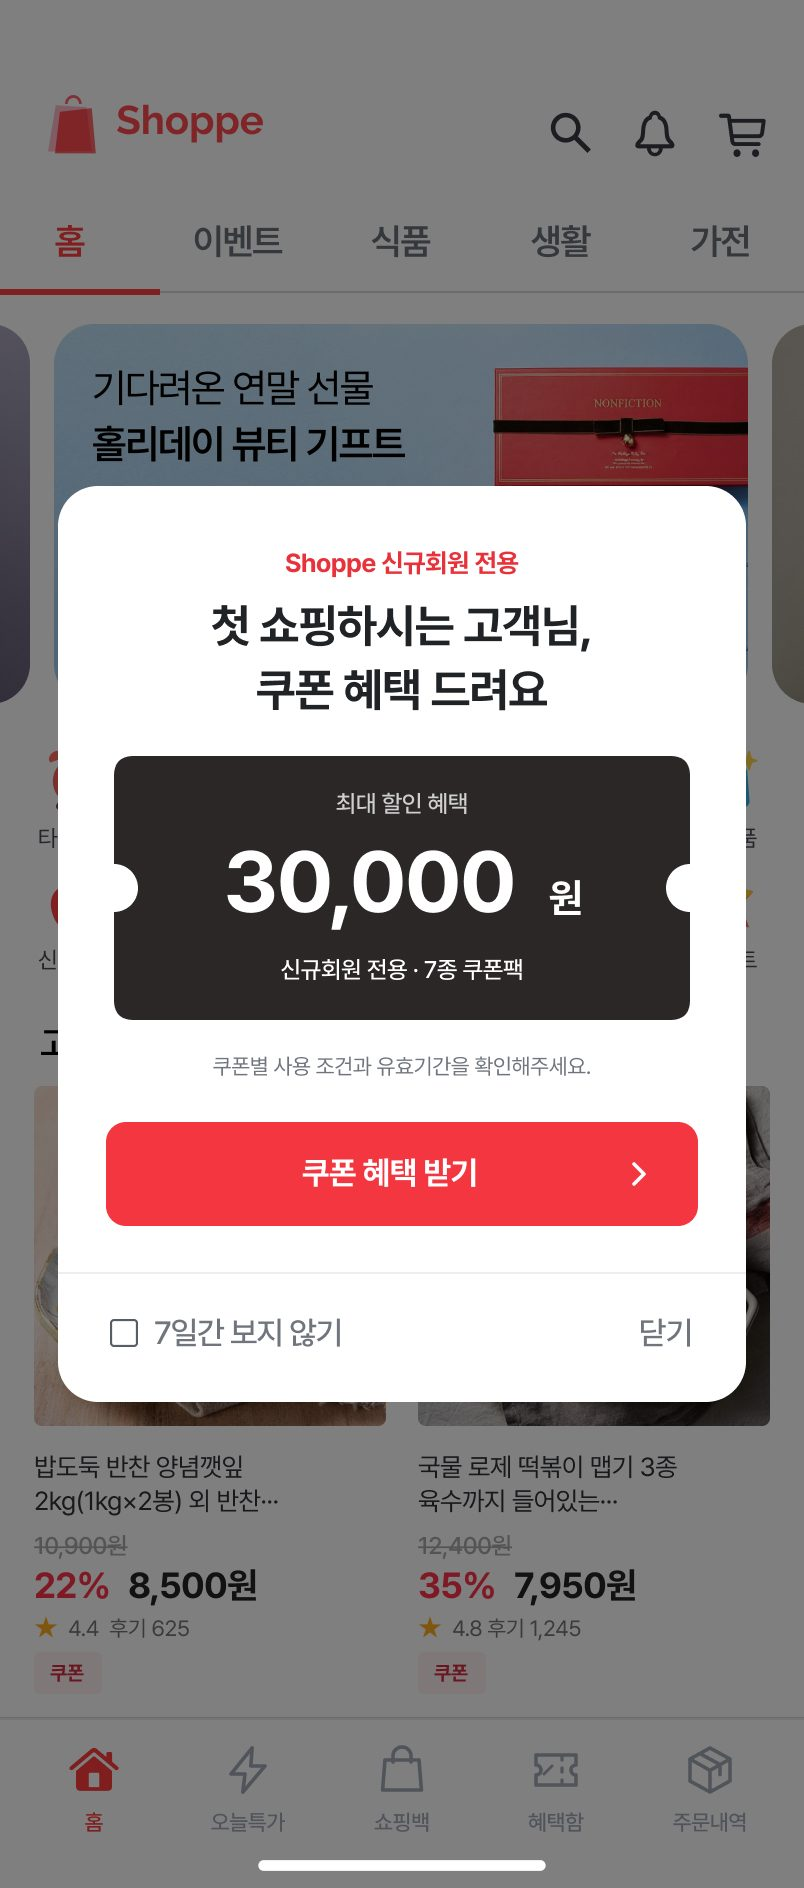
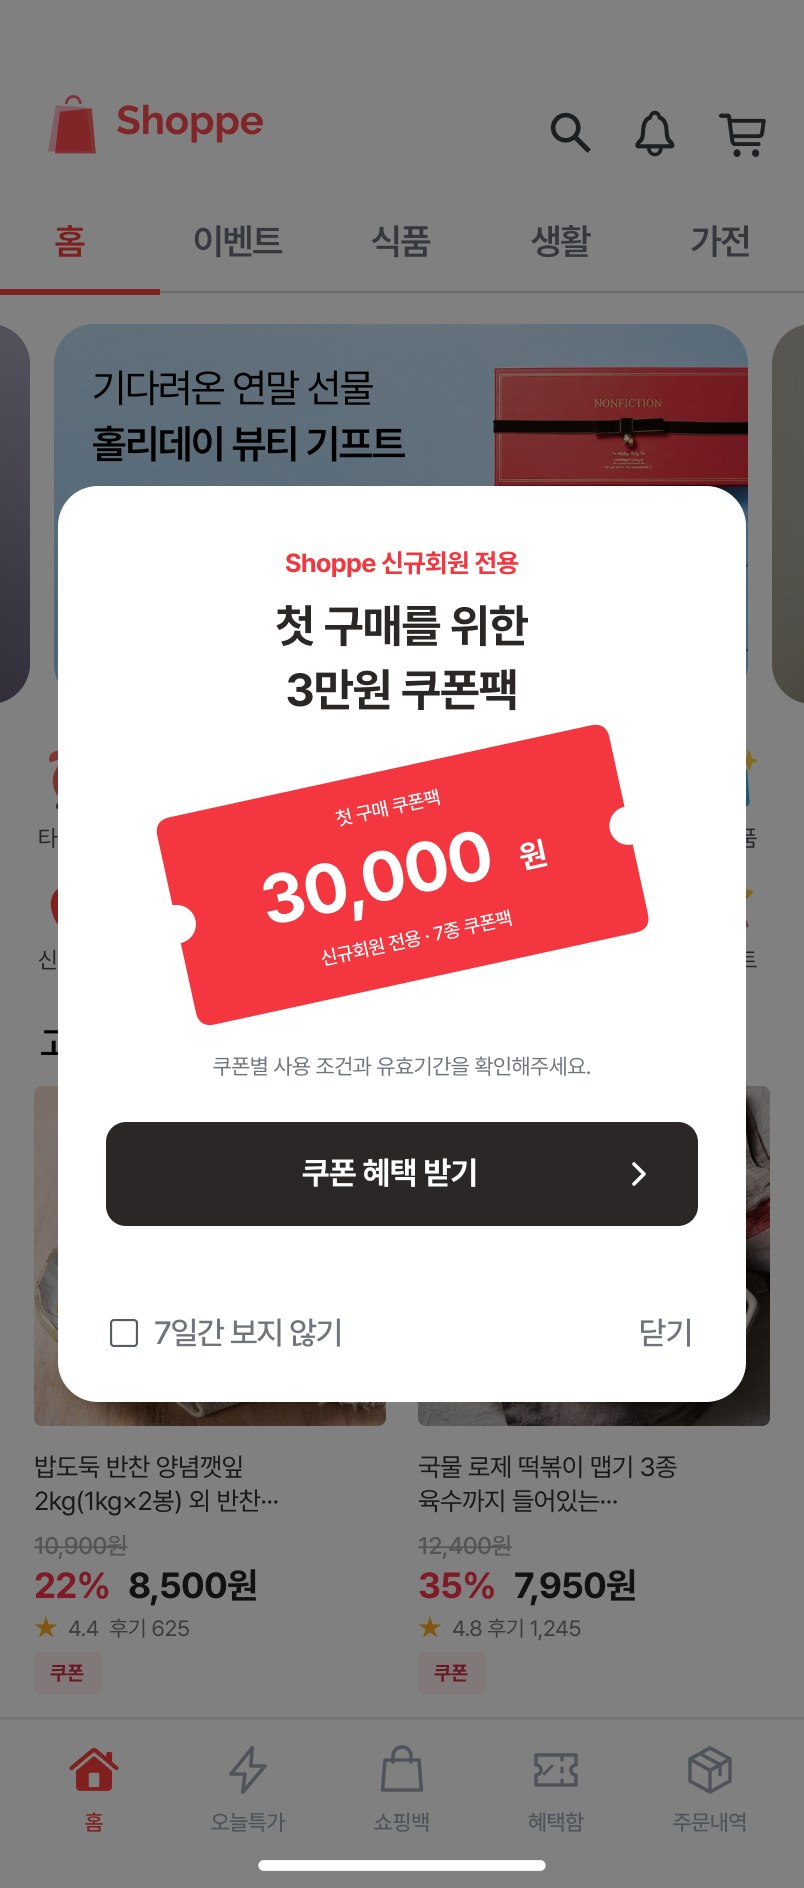
survey update(261118)

Changed region(s): [[0.1244, 0.3125, 0.8706, 0.5625], [0.1244, 0.5938, 0.8706, 0.6562]]

diff --git a/index.html b/index.html
@@ -114,6 +114,17 @@ input:focus-visible, button:focus-visible, [tabindex]:focus-visible { outline: 3
   .two-col .phone img { height: 100%; object-fit: contain; }
 }
 @media (max-width: 859px) { .two-col .phone { max-width: 250px; } }
+/* 조건 제시 전 안내 화면 */
+.intro-stage { position: relative; min-height: min(76vh, 720px); display: grid; place-items: center; overflow: hidden; border-radius: 20px; border: 1px solid var(--line); background: var(--surface); padding: 40px 20px; }
+.intro-stage .bg { position: absolute; inset: 0; display: flex; justify-content: center; align-items: center; pointer-events: none; }
+.intro-stage .bg img { height: 108%; width: auto; max-width: none; opacity: .14; filter: blur(1.5px) grayscale(.2); border-radius: 36px; }
+.intro-stage .bg::after { content: ""; position: absolute; inset: 0; background: radial-gradient(ellipse at center, var(--surface) 0%, transparent 70%); opacity: .75; }
+.intro-copy { position: relative; max-width: 520px; text-align: center; display: grid; gap: 18px; }
+.intro-copy .intro-head { font-size: clamp(22px, 4.6vw, 30px); font-weight: 700; line-height: 1.35; text-wrap: balance; }
+.intro-copy .intro-body { display: grid; gap: 10px; font-size: clamp(16px, 2.6vw, 18px); line-height: 1.7; text-wrap: pretty; }
+.intro-copy .intro-body b { color: var(--accent); font-weight: 600; }
+.intro-copy .btn-row { justify-content: center; margin-top: 10px; }
+.expect-block { border-top: 2px solid var(--fg); padding-top: 20px; margin-top: 8px; }
 .zoom-btn { display: block; margin: 10px auto 0; background: transparent; border: 0; color: var(--accent); font-weight: 600; font-size: 14px; cursor: pointer; }
 
 /* P options */
@@ -183,7 +194,7 @@ th { background: var(--bg); position: sticky; top: 0; }
   <div class="topbar-in">
     <span class="label" id="stepLabel">참가자 정보</span>
     <div class="track" aria-hidden="true"><i id="bar"></i></div>
-    <span class="step-no" id="stepNo">1 / 7</span>
+    <span class="step-no" id="stepNo">1 / 8</span>
   </div>
 </header>
 <main><div class="wrap" id="app"></div></main>
@@ -207,7 +218,7 @@ th { background: var(--bg); position: sticky; top: 0; }
     return GROUP_ORDERS[g] ? Number(g) : 1;
   })();
   const ORDER = GROUP_ORDERS[GROUP].split("");
-  const IMG = { base: "base.jpg", home: "home.jpg", A: "A.jpg", B: "B.jpg", C: "C.jpg", D: "D.jpg?v=2" };
+  const IMG = { base: "base.jpg", home: "home.jpg", A: "A.jpg?v=2", B: "B.jpg", C: "C.jpg", D: "D.jpg?v=2" };
   const COND = {
     A: "동일 광고 · 팝업", B: "동일 광고 · 고정 배너",
     C: "다른 광고 · 팝업", D: "다른 광고 · 고정 배너"
@@ -240,7 +251,9 @@ th { background: var(--bg); position: sticky; top: 0; }
     ["AC", "‘7일간 보지 않기’를 선택한 이후, 이 광고가 나타난 상황에 대해 어떻게 생각하십니까?"]
   ];
   const groupOf = k => k.replace(/\d+$/, "");
-  const STEPS = ["info", "scenario", "expect", ...ORDER.map(c => "cond-" + c), "rank", "done"];
+  const STEPS = ["info", "scenario", "intro", ...ORDER.map(c => "cond-" + c), "rank", "done"];
+  // 응답 데이터의 소요 시간 열 (구글 시트 열 순서 유지를 위해 고정). expect = 팝업을 닫은 뒤 사전 기대 문항에 응답한 시간
+  const TIME_KEYS = ["info", "scenario", "expect", ...ORDER.map(c => "cond-" + c), "rank"];
   const LS_KEY = "adReexposureSurvey.responses.v1";
 
   // ---------- 상태 ----------
@@ -255,7 +268,7 @@ th { background: var(--bg); position: sticky; top: 0; }
     times: {}
   });
   let S = newState();
-  let step = 0, stepStart = Date.now();
+  let step = 0, stepStart = Date.now(), timeKey = null;
   const app = document.getElementById("app");
   const esc = s => String(s).replace(/[&<>"']/g, c => ({ "&": "&amp;", "<": "&lt;", ">": "&gt;", '"': "&quot;", "'": "&#39;" }[c]));
 
@@ -282,7 +295,7 @@ th { background: var(--bg); position: sticky; top: 0; }
       for (const [k] of ITEMS) row[c + "_" + k] = a[k] ?? "";
       row[c + "_AC3_R"] = a.AC3 ? 8 - a.AC3 : "";
     }
-    for (const k of STEPS.slice(0, -1)) row["sec_" + k] = r.times && r.times[k] != null ? r.times[k] : "";
+    for (const k of TIME_KEYS) row["sec_" + k] = r.times && r.times[k] != null ? r.times[k] : "";
     return row;
   }
   function toCSV(rows) {
@@ -293,7 +306,7 @@ th { background: var(--bg); position: sticky; top: 0; }
   }
 
   // ---------- 진행 표시 ----------
-  const LABELS = { info: "참가자 정보", scenario: "상황 안내", expect: "사전 기대", rank: "순서 정하기", done: "제출 완료" };
+  const LABELS = { info: "참가자 정보", scenario: "상황 안내", intro: "안내", rank: "순서 정하기", done: "제출 완료" };
   function setProgress() {
     const k = STEPS[step];
     const total = STEPS.length - 1;
@@ -302,10 +315,10 @@ th { background: var(--bg); position: sticky; top: 0; }
     document.getElementById("stepNo").textContent = k === "done" ? "완료" : n + " / " + total;
     document.getElementById("bar").style.width = (k === "done" ? 100 : (step / total) * 100) + "%";
   }
+  function addTime(k) { S.times[k] = Math.round((Date.now() - stepStart) / 100) / 10 + (S.times[k] || 0); stepStart = Date.now(); }
   function go(next) {
-    const k = STEPS[step];
-    S.times[k] = Math.round((Date.now() - stepStart) / 100) / 10 + (S.times[k] || 0);
-    step = next; stepStart = Date.now();
+    addTime(timeKey || STEPS[step]);
+    step = next; stepStart = Date.now(); timeKey = null;
     render();
     window.scrollTo({ top: 0, behavior: "instant" in window ? "instant" : "auto" });
   }
@@ -317,7 +330,7 @@ th { background: var(--bg); position: sticky; top: 0; }
     const k = STEPS[step];
     if (k === "info") return renderInfo();
     if (k === "scenario") return renderScenario();
-    if (k === "expect") return renderExpect();
+    if (k === "intro") return renderIntro();
     if (k.startsWith("cond-")) return renderCond(k.slice(5));
     if (k === "rank") return renderRank();
     if (k === "done") return renderDone();
@@ -377,6 +390,7 @@ th { background: var(--bg); position: sticky; top: 0; }
   }
 
   function renderScenario() {
+    if (S.closed) timeKey = "expect";
     app.innerHTML = `
       <div class="narrow stack">
         <div>
@@ -400,16 +414,17 @@ th { background: var(--bg); position: sticky; top: 0; }
           </div>
           <p class="tap-hint" id="tapNote"></p>
         </div>
-        <div class="btn-row" style="margin-top:0"><button class="btn" id="scNext" type="button" ${S.closed ? "" : "disabled"}>다음</button></div>
+        <div id="expectSlot"></div>
       </div>`;
     const note = document.getElementById("tapNote");
     const setNote = (text, cls) => { note.textContent = text; note.className = cls; };
     const refreshNote = () => {
-      if (S.closed) setNote("‘7일간 보지 않기’를 선택하고 팝업을 닫았습니다. ‘다음’을 눌러 주세요.", "done-note");
+      if (S.closed) setNote("‘7일간 보지 않기’를 선택하고 팝업을 닫았습니다. 아래 문항에 응답해 주세요.", "done-note");
       else if (S.tapped) setNote("이제 팝업의 ‘닫기’를 눌러 주세요.", "tap-hint");
       else setNote("팝업의 ‘7일간 보지 않기’를 눌러 주세요.", "tap-hint");
     };
     refreshNote();
+    if (S.closed) showExpect(false);
     const hs = document.getElementById("hotspot");
     if (hs) hs.onclick = () => {
       S.tapped = !S.tapped;
@@ -422,44 +437,63 @@ th { background: var(--bg); position: sticky; top: 0; }
     if (cs) cs.onclick = () => {
       if (!S.tapped) { setNote("먼저 ‘7일간 보지 않기’를 선택해 주세요.", "err tap-hint"); return; }
       S.closed = true; S.closedAt = new Date().toISOString();
+      addTime("scenario"); timeKey = "expect";
       hs.remove(); cs.remove(); document.getElementById("checkMark").remove();
       const img = document.getElementById("phoneImg");
       img.src = IMG.home; img.alt = "팝업이 닫힌 Shoppe 앱 홈 화면";
-      document.getElementById("scNext").disabled = false;
       refreshNote();
+      showExpect(true);
     };
-    document.getElementById("scNext").onclick = () => go(step + 1);
   }
 
-  function renderExpect() {
-    app.innerHTML = `
-      <div class="narrow">
-        <div class="stack">
-          <div>
-            <p class="eyebrow">사전 기대</p>
-            <h2 class="title">‘7일간 보지 않기’를 선택하고 ‘닫기’를 눌렀습니다. 아래 내용에 대해 응답해 주세요.</h2>
-          </div>
-          <div>
-            <p class="question">‘7일간 보지 않기’를 선택할 때, 어떤 광고가 어떤 형태까지 보이지 않기를 기대하셨습니까?</p>
-            <p class="muted" style="margin-top:4px">기대한 범위에 가장 가까운 하나를 선택해 주세요.</p>
-          </div>
-          <div class="opts" role="radiogroup" aria-label="예상 차단 범위">
-            ${P_OPTS.map(([v, t]) => `<button type="button" class="opt" role="radio" data-p="${v}" aria-checked="${S.P === v}"><span class="dot"></span><span>${t}</span></button>`).join("")}
-          </div>
-          <p class="err" id="pErr" hidden>하나를 선택해 주세요.</p>
-          <div class="btn-row">
-            <button class="btn ghost" type="button" id="pBack">이전</button>
-            <button class="btn" type="button" id="pNext">다음</button>
-          </div>
+  // 팝업을 닫으면 같은 화면 아래에 사전 기대 문항이 나타남
+  function showExpect(scroll) {
+    const slot = document.getElementById("expectSlot");
+    slot.innerHTML = `
+      <section class="expect-block stack" id="expectBlock" aria-labelledby="expectQ">
+        <div>
+          <p class="eyebrow">사전 기대</p>
+          <p class="question" id="expectQ" style="margin-top:6px">‘7일간 보지 않기’를 선택할 때, 어떤 광고가 어떤 형태까지 보이지 않기를 기대하셨습니까?</p>
+          <p class="muted" style="margin-top:4px">기대한 범위에 가장 가까운 하나를 선택해 주세요.</p>
         </div>
-      </div>`;
+        <div class="opts" role="radiogroup" aria-labelledby="expectQ">
+          ${P_OPTS.map(([v, t]) => `<button type="button" class="opt" role="radio" data-p="${v}" aria-checked="${S.P === v}"><span class="dot"></span><span>${t}</span></button>`).join("")}
+        </div>
+        <p class="err" id="pErr" hidden>하나를 선택해 주세요.</p>
+        <div class="btn-row" style="margin-top:6px"><button class="btn" type="button" id="pNext">다음</button></div>
+      </section>`;
     app.querySelectorAll("[data-p]").forEach(b => b.onclick = () => {
       S.P = b.dataset.p;
       app.querySelectorAll("[data-p]").forEach(x => x.setAttribute("aria-checked", x === b));
       document.getElementById("pErr").hidden = true;
     });
-    document.getElementById("pBack").onclick = () => go(step - 1);
     document.getElementById("pNext").onclick = () => { if (!S.P) { document.getElementById("pErr").hidden = false; return; } go(step + 1); };
+    if (scroll) {
+      const reduce = window.matchMedia && matchMedia("(prefers-reduced-motion: reduce)").matches;
+      setTimeout(() => document.getElementById("expectBlock").scrollIntoView({ behavior: reduce ? "auto" : "smooth", block: "start" }), 450);
+    }
+  }
+
+  // 조건별 화면에 들어가기 전 안내
+  function renderIntro() {
+    app.innerHTML = `
+      <div class="intro-stage">
+        <div class="bg" aria-hidden="true"><img src="${IMG.home}" alt=""></div>
+        <div class="intro-copy">
+          <h2 class="intro-head">앞서 본 상황과는<br>별개의 상황입니다.</h2>
+          <div class="intro-body">
+            <p>처음 ‘7일간 보지 않기’를 선택한 뒤,<br><b>잠시 후 같은 앱에 다시 접속했다고 가정</b>해 주세요.</p>
+            <p>이때 아래와 같은 광고 화면이 나타났습니다.</p>
+            <p>화면을 확인한 뒤 각 문항에 응답해 주세요.</p>
+          </div>
+          <div class="btn-row">
+            <button class="btn ghost" type="button" id="iBack">이전</button>
+            <button class="btn" type="button" id="iNext">다음</button>
+          </div>
+        </div>
+      </div>`;
+    document.getElementById("iBack").onclick = () => go(step - 1);
+    document.getElementById("iNext").onclick = () => go(step + 1);
   }
 
   function renderCond(c) {
@@ -467,8 +501,8 @@ th { background: var(--bg); position: sticky; top: 0; }
     app.innerHTML = `
       <div class="cond-head">
         <p class="eyebrow">상황 ${c}</p>
-        <h2 class="title">‘7일간 보지 않기’를 선택한 뒤 아래와 같은 광고가 다시 나타났습니다.</h2>
-        <p class="lead">화면을 다시 확인하면서 각 문항에 응답해 주세요.</p>
+        <h2 class="title">‘7일간 보지 않기’를 선택한 뒤 아래와 같은 광고가 나타났습니다.</h2>
+        <p class="lead">화면을 확인하면서 각 문항에 응답해 주세요.</p>
       </div>
       <div class="two-col">
         <div class="sticky">
@@ -526,14 +560,14 @@ th { background: var(--bg); position: sticky; top: 0; }
     };
   }
 
-  // ‘처음 화면 다시 보기’ 버튼: 처음 본 광고 팝업(기본 이미지)을 크게 보여 줌.
+  // ‘처음 화면 보기’ 버튼: 처음 본 광고 팝업(기본 이미지)을 크게 보여 줌.
   // 아래쪽 ‘다음/제출하기’ 버튼 줄이 화면에 들어오면 가리지 않도록 숨김
   let fabObs = null;
   function addFab() {
     document.querySelector(".fab")?.remove();
     if (fabObs) { fabObs.disconnect(); fabObs = null; }
     const fab = document.createElement("button");
-    fab.className = "fab"; fab.type = "button"; fab.textContent = "처음 화면 다시 보기";
+    fab.className = "fab"; fab.type = "button"; fab.textContent = "처음 화면 보기";
     fab.onclick = () => openLB(IMG.base, "처음 본 광고 팝업 화면");
     document.body.appendChild(fab);
     const row = app.querySelector(".btn-row");
@@ -619,8 +653,7 @@ th { background: var(--bg); position: sticky; top: 0; }
     return false;
   }
   async function submit() {
-    const k = STEPS[step];
-    S.times[k] = Math.round((Date.now() - stepStart) / 100) / 10 + (S.times[k] || 0);
+    addTime(STEPS[step]);
     S.submittedAt = new Date().toISOString();
     S.order = ORDER.join("");
     S.group = GROUP;
